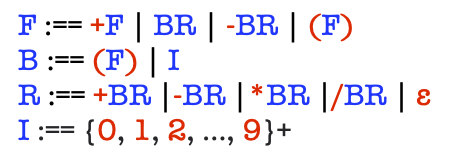
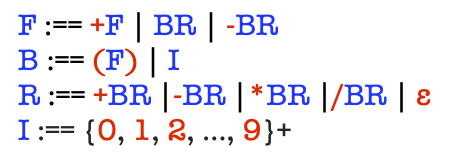
updated Grammar

Changed region(s): [[0.6769, 0.0595, 0.8, 0.2381], [0.6154, 0.0595, 0.6462, 0.2679]]

diff --git a/Parser/Parser.cpp b/Parser/Parser.cpp
@@ -4,11 +4,34 @@
 #include "../TreeNodes/Addition.h"
 #include "../TreeNodes/Division.h"
 #include "../TreeNodes/Number.h"
-#include<math.h>
-#include<string>
+#include <math.h>
+#include <string>
+#include <iostream>
+
+int Parser::findClosingBracket(const std::string &str, const int &index)
+{
+    int copyOfIndex = index;
+    int counter = 0;
+    while (copyOfIndex < str.length() - 1)
+    {
+        if (str[copyOfIndex] == '(')
+            ++counter;
+        if (str[copyOfIndex] == ')')
+        {
+            if(counter == 0)
+                return copyOfIndex;
+            --counter;
+        }
+        ++copyOfIndex;
+    }
+}
 
 bool Parser::consume(const std::string &str, int &index, const char &x)
 {
+    if (index == str.length() - 1)
+    {
+        return false;
+    }
     if (str.at(index) == x)
     {
         index++;
@@ -18,6 +41,8 @@ bool Parser::consume(const std::string &str, int &index, const char &x)
 }
 void Parser::skipSpaces(const std::string &str, int &index)
 {
+    if (str.length() == index + 1)
+        return;
     while (consume(str, index, ' '))
         ;
 }
@@ -31,29 +56,14 @@ TreeNode *Parser::parse(const std::string &str)
 
 TreeNode *Parser::parseF(const std::string &str, int &index)
 {
+    std::cout << "\nparseF()";
     skipSpaces(str, index);
-    if (consume(str, index, '(')) // F -> (F)
-    {
-        TreeNode *result = parseF(str, index);
-        if (!consume(str, index, ')'))
-            // throw invalid input exception
-            return result;
-    }
-    if (consume(str, index, '+')) // F -> +F
-        return parseF(str, index);
-    if (consume(str, index, '-')) // F -> -BR
-    {
-        TreeNode *parsed = new Negation(parseB(str, index));
-        return parseR(str, index, parsed);
-    }
-    // default case: F -> BR
-    // wrong input will be dealt with in parseB call
-    TreeNode *parsed = parseB(str, index);
-    return parseR(str, index, parsed);
+    
 }
 
 TreeNode *Parser::parseB(const std::string &str, int &index)
 {
+    std::cout << "\nparseB()";
     skipSpaces(str, index);
     if (consume(str, index, '('))
     {
@@ -72,6 +82,11 @@ TreeNode *Parser::parseB(const std::string &str, int &index)
 
 TreeNode *Parser::parseR(const std::string &str, int &index, TreeNode *leftSide)
 {
+    std::cout << "\nparseR()";
+    if (index == str.length() - 1)
+    {
+        return leftSide;
+    }
     skipSpaces(str, index);
     if (consume(str, index, '+')) // R -> +BR
         return parseR(str, index, new Addition(leftSide, parseB(str, index)));
@@ -81,18 +96,19 @@ TreeNode *Parser::parseR(const std::string &str, int &index, TreeNode *leftSide)
         return parseR(str, index, new Multiplication(leftSide, parseB(str, index)));
     if (consume(str, index, '/')) // R -> /BR
         return parseR(str, index, new Division(leftSide, parseB(str, index)));
-    if (index == str.length())
-        return leftSide;
     // throw invalid input exception
     return nullptr;
 }
 
-TreeNode* Parser::parseI(const std::string &str, int &index)
+TreeNode *Parser::parseI(const std::string &str, int &index)
 {
+    std::cout << "\nparseI()";
     std::string result;
     while (isDigit(str.at(index)))
     {
         result += str.at(index++);
+        if (str.length() - 1 == index)
+            break;
     }
     // calculate the number
     int number = 0;

diff --git a/main.cpp b/main.cpp
@@ -1,0 +1,18 @@
+#include "./Parser/Parser.h"
+#include "./TreeNodes/TreeNode.h"
+#include<string>
+#include <iostream>
+using namespace std;
+
+int main()
+{
+    string input = "5+(2+3)";
+    while(input!="end")
+    {
+        cin>>input;
+        TreeNode* result = Parser::parse(input);
+        cout<<result->eval();
+        cout<<endl;
+    }
+    return 0;   
+}
